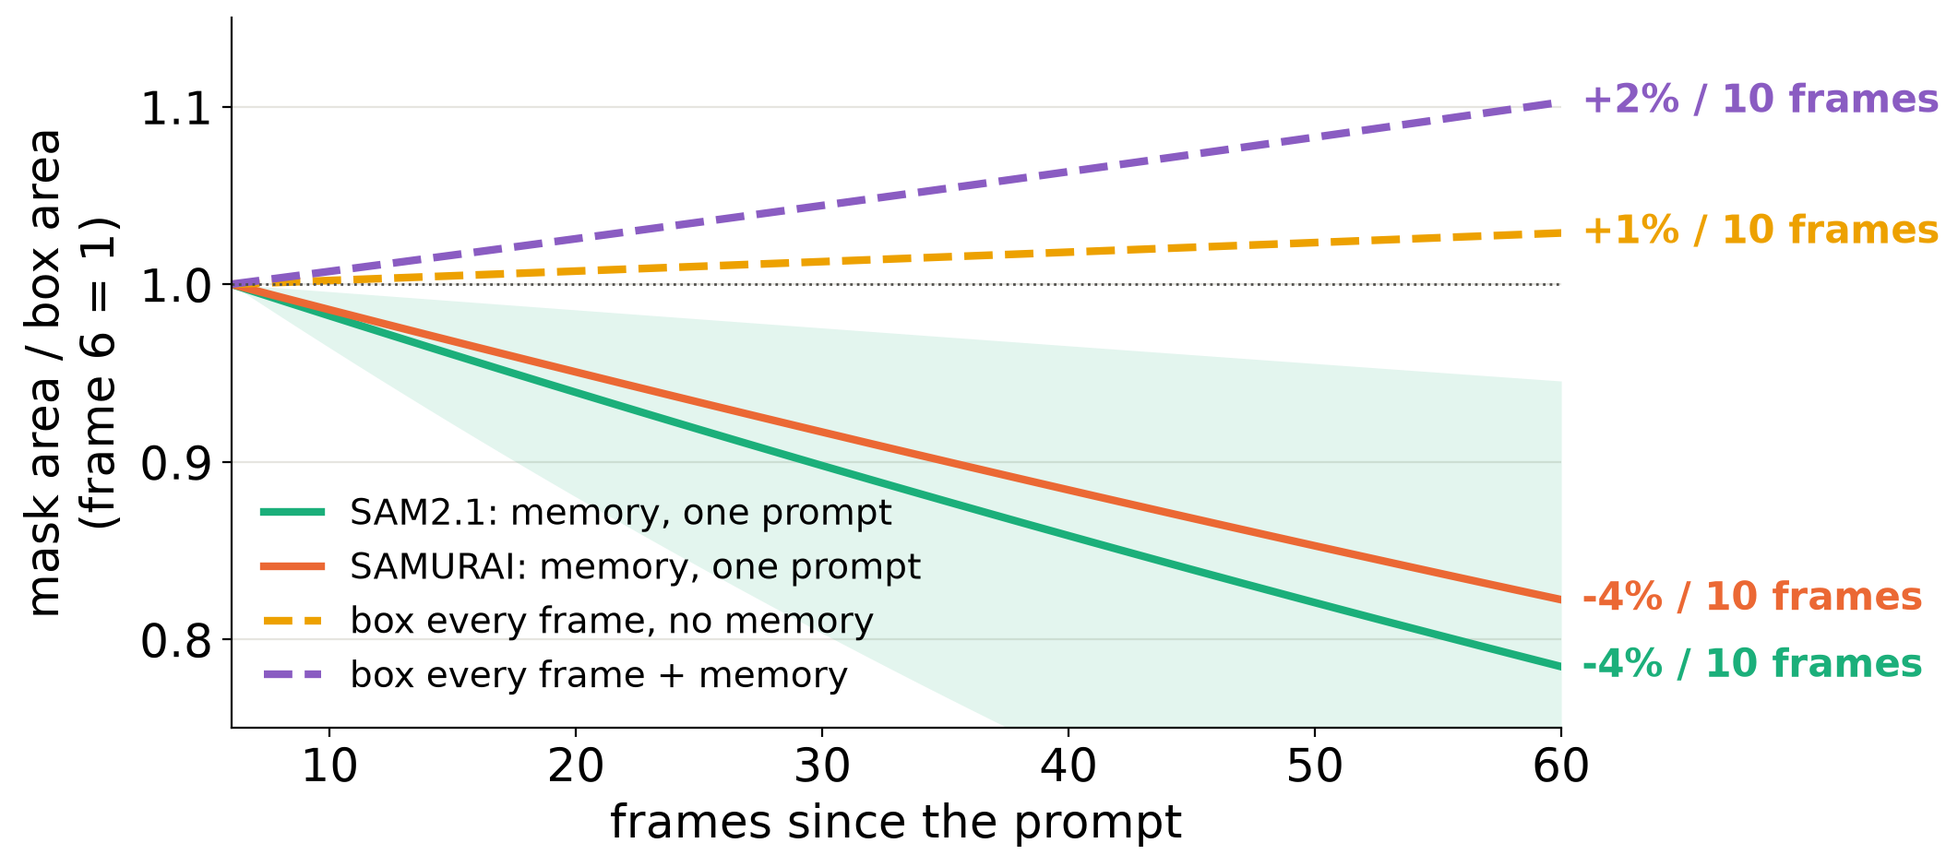
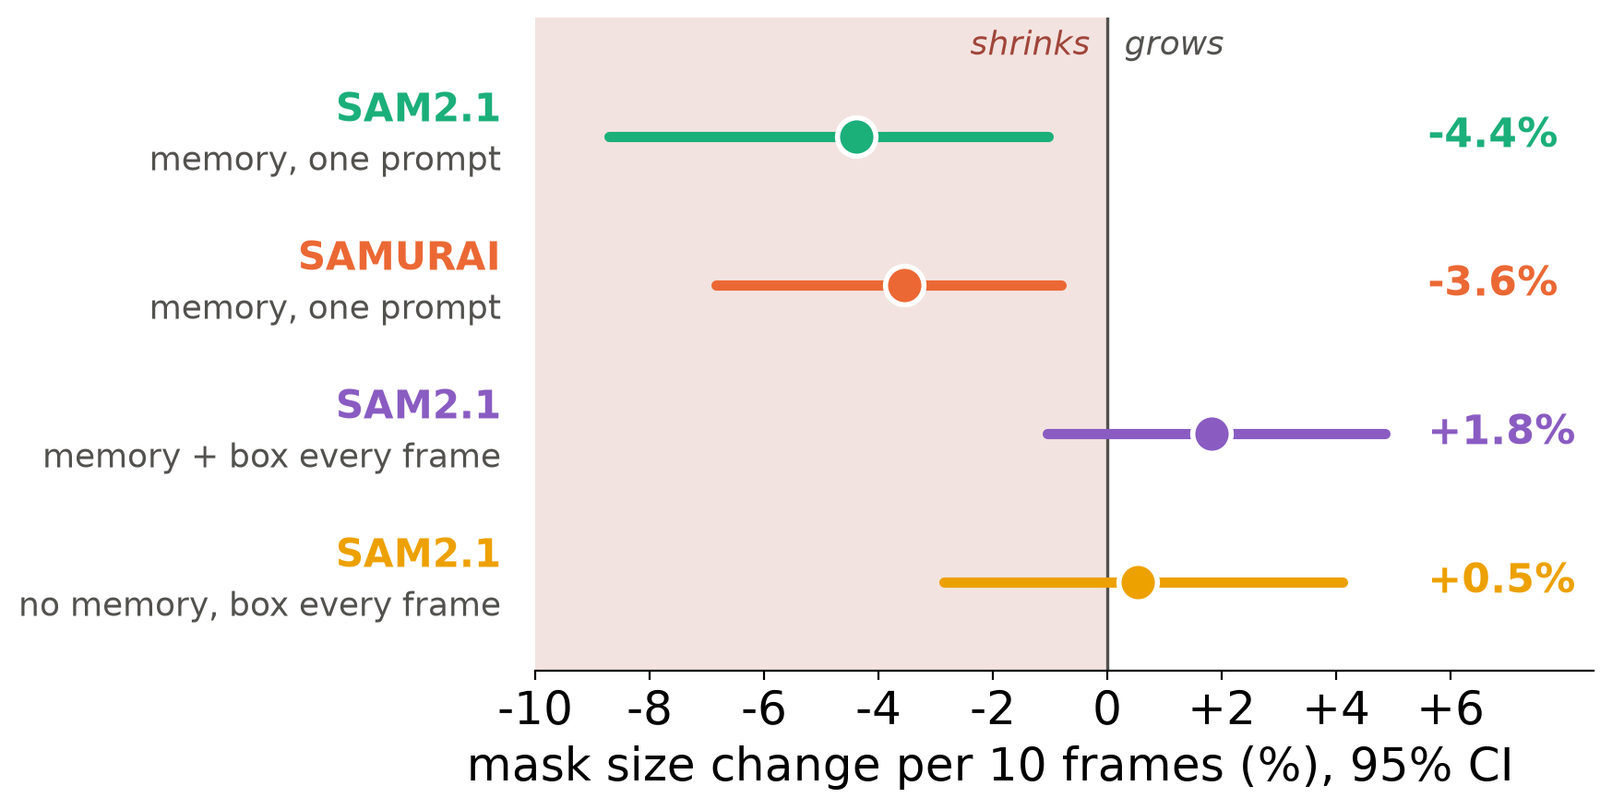
Talk: mask-size slope plot with CIs (boxes do not drift); symptom titles, hand masks as diagnostic; multi-person open question
Also adds the repo-cleanup project skill.

diff --git a/docs/poster/poster_latex/NFO_VOS_talk.tex b/docs/poster/poster_latex/NFO_VOS_talk.tex
@@ -9,8 +9,8 @@
 %
 % Story: fragmented occlusion -> which pixels are person (modal, ambiguous patches / pixels) -> annotators disagree
 % -> PVS instead, but how well? -> NFO-VOS (prompt places, two complementary downstream tasks: tracking ~ recall,
-% detection ~ precision; hand masks as a probe) -> probes: cautious, memory shrinks masks -> motion layers: tracker (where) + integral image
-% (what, a memory of pixels) -> Layer-SAM, adapter, data, loss -> results, detection vs N, probe again, components.
+% detection ~ precision; hand masks as a diagnostic) -> symptoms: cautious, memory shrinks masks -> motion layers: tracker (where) + integral image
+% (what, a memory of pixels) -> Layer-SAM, adapter, data, loss -> results, detection vs N, symptom 1 treated, components.
 %%%%%%%%%%%%%%%%%%%%%%%%%%%%%%%%%%%%%%%%%%%%%%%%%%%%%%%%%%%%%%%%%%%%%%%%%%%%%%%%
 
 \PassOptionsToPackage{english,ngerman}{babel} % English hyphenation, selected after \begin{document}
@@ -191,7 +191,7 @@ $J = \dfrac{|A \cap B|}{|A \cup B|} \approx 0.65$ \quad \Klein{Jaccard index (Io
 \note[itemize]{
 \item NFO (Pflugfelder \& Auer 2021): 4 scenes, fixed camera; per scene 8 crossings (walk and run, left and right, each twice): 32 crossings, 44--155 frames each; a hand-drawn person box in every frame. Made for person localisation.
 \item One crossing (scene 3), four moments, with the hand box. The full clip: plots/talk/clip.mp4.
-\item The original NFO has boxes only. NFO-VOS turns it into a video segmentation benchmark: since boxes exist for every frame, we score masks through downstream tasks the boxes can check. (Hand masks of 43 frames were added later, by other annotators; two annotators agree only at J 0.65, so they serve as a probe, not for ranking.)
+\item The original NFO has boxes only. NFO-VOS turns it into a video segmentation benchmark: since boxes exist for every frame, we score masks through downstream tasks the boxes can check. (Hand masks of 43 frames were added later, by other annotators; two annotators agree only at J 0.65, so they serve as a diagnostic, not for ranking.)
 }
 \end{frame}
 
@@ -234,7 +234,7 @@ $J = \dfrac{|A \cap B|}{|A \cup B|} \approx 0.65$ \quad \Klein{Jaccard index (Io
 \includegraphics[height=4.0cm]{plots/nfo/bench_track.jpg} &
 \includegraphics[height=4.0cm]{plots/nfo/bench_recog.jpg} &
 {\color{black!45}\includegraphics[height=3.0cm]{plots/nfo/bench_pixels.jpg}} \\[1mm]
-\textbf{tracking} & \textbf{detection} & \color{black!60}probe: hand masks \\
+\textbf{tracking} & \textbf{detection} & \color{black!60}diagnostic: hand masks \\
 \Klein{box around the mask vs.\ hand box} & \Klein{YOLO11 person detector} & \Klein{J, precision, recall}\\
 \Klein{success AUC} & \Klein{confidence, AP50} & \Klein{43 frames, not a task}
 \end{tabular}
@@ -250,7 +250,7 @@ $J = \dfrac{|A \cap B|}{|A \cup B|} \approx 0.65$ \quad \Klein{Jaccard index (Io
 \item Detection: run the YOLO11 person detector on the image built from the masks (next slide). Confidence: score of the best detection overlapping the hand box (IoU $\ge$ 0.5). AP50: average precision at IoU 0.5 over all frames.
 \item Why complementary: the box around the mask only reaches the person's true extent if the mask reaches every limb, so tracking rewards recall; a mask with foliage in it puts leaves into the integrated image the detector sees, so detection rewards precision. (Detection still needs enough of the person: YOLO is trained on whole people, a few separate limbs are out of distribution.)
 \item Together they check each other: tracking alone would reward boxes full of leaves, detection alone would reward caution. The results table will show exactly this split: SAM2.1 with memory is best in detection, SAM2.1 given a box every frame is better in tracking.
-\item Hand masks: not a task (43 frames, two annotators at J 0.65), but a probe of how a model behaves: does it take the ambiguous patches or leave them out?
+\item Hand masks: not a task (43 frames, two annotators at J 0.65), but a diagnostic of how a model behaves: does it take the ambiguous patches or leave them out?
 \item (Detection is called \emph{recognition} on the poster and in the briefing; same metric.)
 }
 \end{frame}
@@ -285,7 +285,7 @@ $J = \dfrac{|A \cap B|}{|A \cup B|} \approx 0.65$ \quad \Klein{Jaccard index (Io
 \Teil{Probing PVS}
 
 \begin{frame}
-\frametitle{Probe 1: PVS is cautious}
+\frametitle{Which patches does PVS keep?}
 \vspace*{2mm}
 \begin{columns}[T]
 \begin{column}{0.52\textwidth}
@@ -310,15 +310,15 @@ $J = \dfrac{|A \cap B|}{|A \cup B|} \approx 0.65$ \quad \Klein{Jaccard index (Io
 \end{column}
 \end{columns}
 \note[itemize]{
-\item The hand-mask probe. SAM2.1 video, prompted once with box + point; frame 60 of a crossing in scene 4, against the human label.
+\item The hand-mask diagnostic. SAM2.1 video, prompted once with box + point; frame 60 of a crossing in scene 4, against the human label.
 \item Over all hand frames: precision 0.89, recall 0.80. Trained on clear objects, the model keeps only what it is sure about: the opposite of what the downstream tasks want.
 \item Memory is a closed loop: the next mask is conditioned on the cautious ones before it. Memory management (SAMURAI and others) chooses among past decisions; that helps when some past frame was clear. Here none is.
-\item Hint: a memory of cautious masks can only give more of the same. Next probe: does it?
+\item Hint: a memory of cautious masks can only give more of the same. Next symptom: does it?
 }
 \end{frame}
 
 \begin{frame}
-\frametitle{Probe 2: memory and mask size}
+\frametitle{Mask size over time}
 \vspace*{2mm}
 \only<1>{%
 \vspace*{2cm}\centering
@@ -330,15 +330,15 @@ $J = \dfrac{|A \cap B|}{|A \cup B|} \approx 0.65$ \quad \Klein{Jaccard index (Io
 \end{column}
 \begin{column}{0.36\textwidth}
 \begin{itemize}
-\item size = mask area / hand box area, relative to frame 6 (1 = no change)
+\item size = mask area / hand box area; per crossing its trend from frame 6 on
 \item memory, one prompt: $-4\,\%$ per 10 frames, SAMURAI too
-\item tracker prompt every frame: size kept
+\item box every frame: $+0.5$ to $+1.8\,\%$, CI across 0: no drift
 \end{itemize}
 \end{column}
 \end{columns}}
 \note[itemize]{
 \item Overlay 1: let the room guess first.
-\item Mask area over the hand box's area: invariant to the person's apparent size. Divided by its own value at frame 6 so every crossing starts at 1. Per crossing a straight-line fit of the log size, mean over the 32 crossings; band: 95\,\% CI over crossings (SAM2.1).
+\item Mask area over the hand box's area: invariant to the person's apparent size. Per crossing a straight-line fit of the log size from frame 6 on, as \% change per 10 frames; dot = mean over the 32 crossings, bar = 95\,\% CI (bootstrap over passes). A bar across 0 = no trend: with a box every frame the size goes up and down with the foliage density, but does not drift (+0.5\,\% and +1.8\,\%, both n.s.).
 \item Prompted once, memory masks shrink about 4\,\% per 10 frames: the cautious masks compound, a memory collapse. SAMURAI's memory management changes nothing. The drop is front-loaded: about 20\,\% within the first 30 frames, then level.
 \item Telling SAM2.1 where to look in every frame (a box per frame, here from a tracker, next section) keeps the size, with or without memory. The price, in the results table: a box around a fragmented person holds foliage, SAM2.1 takes some of it, and detection drops (0.666 $\to$ 0.596 without memory).
 \item So memory helps detection (precision) and hurts tracking (extent); a box every frame does the opposite: the complementary tasks of the benchmark, in one trade-off.
@@ -363,7 +363,7 @@ $J = \dfrac{|A \cap B|}{|A \cup B|} \approx 0.65$ \quad \Klein{Jaccard index (Io
 \note[itemize]{
 \item Wang \& Adelson (1994): describe a video as layers, each with its own motion, ordered in depth. Here: foliage in front, the person in the middle, the background behind.
 \item Static camera: foliage and background move with velocity 0 (up to flutter). The person's motion is more complicated (gait, articulation); a constant horizontal velocity holds for people crossing a static camera's view at a distance: true for this data set.
-\item What we need, from the probes: the extent in every frame (memory shrinks it: tracking suffers) and the person's appearance (what memory provides: detection), without feeding cautious masks back.
+\item What we need, from the symptoms: the extent in every frame (memory shrinks it: tracking suffers) and the person's appearance (what memory provides: detection), without feeding cautious masks back.
 \item Each layer gives one of the two. Velocity 0 gives the empty scene, and from it a tracker: a prompt every frame (where, recall, tracking). Velocity $v$ gives the integral image of the person: a memory of pixels (what, precision, detection).
 }
 \end{frame}
@@ -384,7 +384,7 @@ $J = \dfrac{|A \cap B|}{|A \cup B|} \approx 0.65$ \quad \Klein{Jaccard index (Io
 \item Empty scene $B$: the static layers at velocity 0, a plain median of person-free frames. Encoded once by SAM2.1's encoder.
 \item Change map: per feature cell (stride 16), 1 minus the cosine similarity between frame $t$'s and the empty scene's features. Like feature-based anomaly detection (e.g.\ PatchCore, Roth et al.\ 2022): each patch's pretrained feature is compared with features of a ``normal'' reference, here the empty scene, and large distance means something new is there. One frame, coarse: it says where, not which pixels.
 \item A box of the prompt's size slides over the change map near the predicted position (robust line fit through the last 8 positions) and moves to where the mean change is largest.
-\item Shares the frame's encoder pass. Centre error 10 px on NFO. This fixes the shrinking masks of probe 2. It also gives the person's velocity $v$: next slide.
+\item Shares the frame's encoder pass. Centre error 10 px on NFO. This fixes the shrinking masks of symptom 2. It also gives the person's velocity $v$: next slide.
 }
 \end{frame}
 
@@ -516,7 +516,7 @@ frame $t$ & integral image $C$ & support $a$
 \end{column}
 \end{columns}
 \note[itemize]{
-\item Against PVS's caution (probe 1), a missed person pixel costs more than a leaf pixel; precision comes from the empty scene and the integral image. In lesion segmentation the target is small and scattered, and plain Dice under-weights misses; the Tversky index weights false negatives (0.7) above false positives (0.3). Focal: raised to 0.75, as in Abraham \& Khan.
+\item Against PVS's caution (symptom 1), a missed person pixel costs more than a leaf pixel; precision comes from the empty scene and the integral image. In lesion segmentation the target is small and scattered, and plain Dice under-weights misses; the Tversky index weights false negatives (0.7) above false positives (0.3). Focal: raised to 0.75, as in Abraham \& Khan.
 \item Pixel weights: visible person and background 1; hidden person within 8 px of a visible fragment 0: a synthetic ambiguous patch, it must hold some person pixels next to the true positives, so it is not penalised either way, like a time-constrained annotator who marks it yellow; hidden person far from any fragment 0.3, counted as background: modal, but not harshly.
 \item Plus a per-pixel focal cross-entropy ($\gamma = 2$, person pixels weighted about 2:1), scaled by 20 as in SAM's recipe.
 \item AdamW, learning rate $3\cdot10^{-4}$, weight decay $10^{-4}$, cosine schedule; up to 32 target frames per clip. Checkpoint at step 200, chosen on scene 1; scenes 2--4 are the test.
@@ -554,7 +554,7 @@ SAM2.1 & -- & $\checkmark$ & -- & -- & .628 & .596 & .814 \\
 \note[itemize]{
 \item Tracking: Layer-SAM vs SAMURAI +0.096 to +0.102 AUC per seed, every paired bootstrap CI above 0; also ahead of SAM2.1 with memory and a box every frame.
 \item Detection confidence vs SAMURAI: $-$0.001 to +0.008 per seed: on par. AP50 0.878 is the highest in the table, but no CI was computed for it.
-\item The trade-off of the probes in rows 1--4: memory best in detection, a box every frame better in tracking. Layer-SAM is on both sides at once: the tracker box alone lost detection; with the integral image it is back, without a mask memory.
+\item The trade-off of the symptoms in rows 1--4: memory best in detection, a box every frame better in tracking. Layer-SAM is on both sides at once: the tracker box alone lost detection; with the integral image it is back, without a mask memory.
 \item Cost: one shared encoder pass per frame for the frame and one for the integral image (the empty scene once per scene); tracker and adapter are small. RTX PRO 4000 laptop GPU, batch 1.
 }
 \end{frame}
@@ -582,7 +582,7 @@ SAM2.1 & -- & $\checkmark$ & -- & -- & .628 & .596 & .814 \\
 \end{frame}
 
 \begin{frame}
-\frametitle{Probe 1 again: less cautious?}
+\frametitle{Which patches does Layer-SAM keep?}
 \vspace*{2mm}
 \centering\includegraphics[height=4.1cm]{plots/talk/qual1.png}
 
@@ -600,8 +600,8 @@ SAMURAI & .879 & .806 & .832 & .730 & & .770 & .647 \\
 \medskip\raggedright
 \Klein{F1 = harmonic mean of precision and recall; experimental: few frames, two annotators. Layer-SAM: mean of 3 seeds.}
 \note[itemize]{
-\item The frame from probe 1 again (scene 4, frame 60): SAM2.1 keeps the clearest fragments (precision 96\,\%, recall 64\,\%); Layer-SAM takes the fragments the annotator marked, at a small cost in precision. F1 77\,\% $\to$ 87\,\%.
-\item Over all frames of annotator A: recall 0.80 $\to$ 0.85 at precision 0.89 $\to$ 0.86: the caution diagnosed in probe 1 is reduced, and the balance (F1) improves. J: +0.022 to +0.029 per seed vs SAMURAI, every CI above 0.
+\item The frame from symptom 1 again (scene 4, frame 60): SAM2.1 keeps the clearest fragments (precision 96\,\%, recall 64\,\%); Layer-SAM takes the fragments the annotator marked, at a small cost in precision. F1 77\,\% $\to$ 87\,\%.
+\item Over all frames of annotator A: recall 0.80 $\to$ 0.85 at precision 0.89 $\to$ 0.86: the caution diagnosed in symptom 1 is reduced, and the balance (F1) improves. J: +0.022 to +0.029 per seed vs SAMURAI, every CI above 0.
 \item Annotator B labels more generously (every method has recall above 0.9 against B): there the methods are on par. What counts as person in the ambiguous patches depends on the annotator: one more reason not to rank on hand masks.
 \item F1 per frame is the Dice coefficient, a monotone function of J (F1 = 2J / (1 + J)); it ranks like J but reads directly as the balance of precision and recall.
 }
@@ -638,7 +638,7 @@ SAMURAI & .879 & .806 & .832 & .730 & & .770 & .647 \\
 \frametitle{Conclusion and open questions}
 \begin{enumerate}
 \item behind foliage: never a full view; patches stay ambiguous, annotators disagree
-\item NFO-VOS: masks scored on tracking and detection; hand masks as a probe
+\item NFO-VOS: masks scored on tracking and detection; hand masks as a diagnostic
 \item PVS is cautious, and memory compounds it; a prompt every frame trades it for foliage
 \item Layer-SAM: remembers images, not masks; best tracking, on par or better in detection
 \end{enumerate}
@@ -648,6 +648,7 @@ SAMURAI & .879 & .806 & .832 & .730 & & .770 & .647 \\
 \item moving camera: no single empty scene; the background has to be aligned frame to frame
 \item layers in \textbf{feature space}: one encoder pass less per frame $\to$ faster than SAM2.1 with memory
 \item other settings: other occluders (fences, blinds, rain); distractors, e.g.\ a second person moving differently
+\item several people: one integral image each
 \end{itemize}
 \note[itemize]{
 \item A static wall of leaves in front of a moving person: no frame shows all of it, not at the prompt, not later. Some patches mix person and leaf too finely to resolve, for any model and for annotators (J 0.65).
@@ -657,6 +658,7 @@ SAMURAI & .879 & .806 & .832 & .730 & & .770 & .647 \\
 \item Turning, stopping, waving: one shift per frame no longer lines the person up; the integral image would need a motion per body part.
 \item One encoder pass: today the integral image goes through the encoder separately. Averaging features instead of pixels would save that pass, but the encoder is non-linear and a feature cell is larger than most gaps: open whether it works.
 \item Other occluders with the same structure (fences, blinds, rain); a look-alike second person moves differently, so a motion layer could also separate it.
+\item Several people: one tracker and one integral image per person, tracks matched across frames (Hungarian assignment on box overlap or kernel cost). The encoder pass per frame is shared, but each person adds an integral-image encoding and a decoder call: cost grows linearly with the number of people.
 }
 \end{frame}
 

diff --git a/benchmark/nfo_vos/tools/talk_figures.py b/benchmark/nfo_vos/tools/talk_figures.py
@@ -198,30 +198,32 @@ def masksize_sam():
     save(fig, 'masksize_sam.png')
 
 
-def masksize_trend(kmax=60):
-    """masksize_sam as fitted trends: per crossing the least-squares slope of log(mask / box area) over frames 6...end
-    (mask_fill.trends), mean over the 32 crossings with its 95 % CI over passes, drawn as size relative to frame 6.
-    SAM2.1 variants only."""
+def masksize_trend():
+    """Probe 2 as slopes, not curves: per crossing the least-squares slope of log(mask / box area) over frames 6...end
+    (mask_fill.trends), mean over the 32 crossings with its 95 % CI over passes, as % size change per 10 frames.
+    A CI across 0 = no trend (the box-every-frame arms; drawn curves suggested growth). SAM2.1 variants only."""
     from benchmark.nfo_vos.eval import mask_fill as MF
-    F = MF.fills(list(csv.DictReader(open(MF.CSV))))
-    S = MF.trends(F)
-    k = np.arange(MF.K0, kmax + 1)
-    fig, ax = plt.subplots(figsize=(9.3, 5.0))
-    for a, label, col, ls in (('b0-c2', 'SAM2.1: memory, one prompt', C_B0, '-'), ('t1-c2', 'SAMURAI: memory, one prompt', C_SAMURAI, '-'),
-                              ('trk', 'box every frame, no memory', C_TRK, '--'), ('b0trk-c2', 'box every frame + memory', '#8a5cc2', '--')):
+    S = MF.trends(MF.fills(list(csv.DictReader(open(MF.CSV)))))
+    arms = (('b0-c2', 'SAM2.1', 'memory, one prompt', C_B0), ('t1-c2', 'SAMURAI', 'memory, one prompt', C_SAMURAI),
+            ('b0trk-c2', 'SAM2.1', 'memory + box every frame', '#8a5cc2'), ('trk', 'SAM2.1', 'no memory, box every frame', C_TRK))
+    pc = lambda v: (np.exp(v) - 1) * 100
+    fig, ax = plt.subplots(figsize=(7.4, 4.6))
+    ax.axvspan(-10, 0, color='#f3e3e0', lw=0, zorder=0)
+    ax.axvline(0, color='#52514e', lw=1.2, zorder=1)
+    for j, (a, name, how, col) in enumerate(arms):
+        y = len(arms) - 1 - j
         m, lo, hi, *_ = MF.boot_mean(S[a], list(S[a]))
-        y = lambda s: np.exp(s / 10 * (k - MF.K0))
-        if a == 'b0-c2':
-            ax.fill_between(k, y(lo), y(hi), color=col, alpha=0.12, lw=0)
-        ax.plot(k, y(m), ls, color=col, lw=3, label=label)
-        ax.annotate(f'{(np.exp(m) - 1) * 100:+.0f}% / 10 frames', (k[-1], y(m)[-1]), xytext=(8, 0), textcoords='offset points',
-                    va='center', fontsize=15, color=col, annotation_clip=False, fontweight='bold')
-    ax.axhline(1, color='#52514e', lw=1, ls=':')
-    ax.set_xlim(MF.K0, kmax); ax.set_ylim(0.75, 1.15)
-    ax.set_xlabel('frames since the prompt'); ax.set_ylabel('mask area / box area\n(frame 6 = 1)')
-    ax.legend(loc='lower left', frameon=False, fontsize=14, handlelength=1.6)
-    ax.grid(axis='y', color='#e6e5e0', lw=0.8); ax.set_axisbelow(True)
-    for s in ('top', 'right'):
+        ax.plot([pc(lo), pc(hi)], [y, y], color=col, lw=4, solid_capstyle='round', zorder=2)
+        ax.plot(pc(m), y, 'o', color=col, ms=15, mec='white', mew=2, zorder=3)
+        ax.annotate(f'{pc(m):+.1f}%', (5.6, y), va='center',
+                    fontsize=16, color=col, fontweight='bold')
+        ax.text(-10.6, y + 0.17, name, fontsize=15, fontweight='bold', color=col, va='center', ha='right')
+        ax.text(-10.6, y - 0.17, how, fontsize=13, color='#52514e', va='center', ha='right')
+    ax.text(-0.3, len(arms) - 0.45, 'shrinks', ha='right', fontsize=13, color='#a0453a', style='italic')
+    ax.text(0.3, len(arms) - 0.45, 'grows', ha='left', fontsize=13, color='#52514e', style='italic')
+    ax.set_xlim(-10, 8.5); ax.set_xticks(range(-10, 7, 2)); ax.set_xticklabels([f'{v:+d}' if v else '0' for v in range(-10, 7, 2)]); ax.set_ylim(-0.6, len(arms) - 0.2); ax.set_yticks([])
+    ax.set_xlabel('mask size change per 10 frames (%), 95% CI', x=0.43)
+    for s in ('top', 'right', 'left'):
         ax.spines[s].set_visible(False)
     save(fig, 'masksize_trend.png')
 

diff --git a/.claude/skills/repo-cleanup/SKILL.md b/.claude/skills/repo-cleanup/SKILL.md
@@ -1,0 +1,59 @@
+---
+name: repo-cleanup
+description: Decide what to commit before any commit in this repo. Use before committing (or when the user says "commit", "clean up the repo", "what should go into git"). Classifies every changed/untracked path into commit / ignore / ask, so only files that are useful later end up in git (the repo is public on GitHub).
+---
+
+# Repo cleanup before a commit
+
+The repo (`github.com/ikavodo/NFO-UNet`) is **public**. Commit only what someone (the user, a collaborator, a future
+session) would need later to understand or reproduce the work. Never stage with `git add -A` / `git add .`.
+
+## 1. Inventory
+
+```bash
+git status --short
+git diff --stat
+du -sh <each untracked dir>            # sizes of untracked paths
+find <untracked dir> -type f | head -100
+```
+
+Read `CLAUDE.md` (data manifest: "nothing large is in git"; hand labels are the force-added exception) and `.gitignore`
+before deciding.
+
+## 2. Classify every path
+
+| class | examples here | action |
+|---|---|---|
+| **source we wrote** | `benchmark/**/*.py`, `*.sbatch`, our `.tex` sources, docs `*.md` / `docs/briefing/index.html`, tests | commit |
+| **small generated figure that a committed doc needs and that is not regenerable from git alone** (needs cluster data) | poster / briefing figures under ~1 MB each, referenced by a committed `.tex` / `.html` | commit, and make sure the script that makes it is committed too |
+| **generated, regenerable or large** | masks (`results/**/masks`), CSVs under `results/`, logs, build PDFs, contact sheets, option sheets not used by any doc | do not commit; add to `.gitignore` if it will keep reappearing |
+| **build / editor junk** | `*.aux *.log *.fls *.fdb_latexmk *.synctex.gz`, `*:Zone.Identifier`, `__pycache__/`, `.idea/` | never; add to `.gitignore` |
+| **third-party / copyrighted / licensed** | institutional LaTeX templates (TUM `Ressourcen/`, `Vorlagen/`, `Beispiele/`), logos, figures copied from papers, papers themselves, datasets | **ask the user** (public repo); default is do not commit |
+| **secrets / personal data** | tokens, `.env`, e-mail lists, raw personal data | never |
+| **anything > 5 MB** | example PDFs, checkpoints, videos | never in git; mention where it lives instead |
+
+Unused leftovers (e.g. figures a later draft no longer references) are not "useful later": leave them out.
+
+## 3. Propose, then act
+
+- Show the user a short table: **commit** / **ignore** / **ask**, with one reason per line.
+- Ask only about the **ask** rows (one question, options), never re-ask what the rules decide.
+- Stage explicit paths only (`git add <path> ...`). Add `.gitignore` rules for recurring junk in the same commit.
+- `git status --short` after staging: nothing unintended staged, nothing intended left out.
+- Commit with a message that says what and why; end with the attribution lines the session gives. Do not push unless
+  the user asks.
+
+## Tidy mode: redundant things already in git
+
+When asked to "make order" in the repo (not only before a commit):
+
+1. List tracked files by area: `git ls-files | awk -F/ '{print $1"/"$2}' | sort | uniq -c | sort -rn`.
+2. For each doc / asset, check whether anything still points to it:
+   `grep -rlF "$(basename <file>)" --include=*.md --include=*.html --include=*.py --include=*.sh --include=*.sbatch .`
+   and whether it describes code that no longer exists (CLAUDE.md: removed code lives at tag
+   `archive/pre-cleanup-2026-10-21`).
+3. Candidates: unreferenced docs about removed code, superseded plans (a newer doc or the findings doc covers them),
+   duplicate copies of a file, generated files tracked by mistake. Keep: the legacy U-Net as published (CLAUDE.md),
+   hand labels, `trials.json`, logs the findings cite.
+4. Show the candidate list with one reason each; delete only what the user approves (`git rm`), in its own commit
+   whose message names the archive tag for anything removed.
